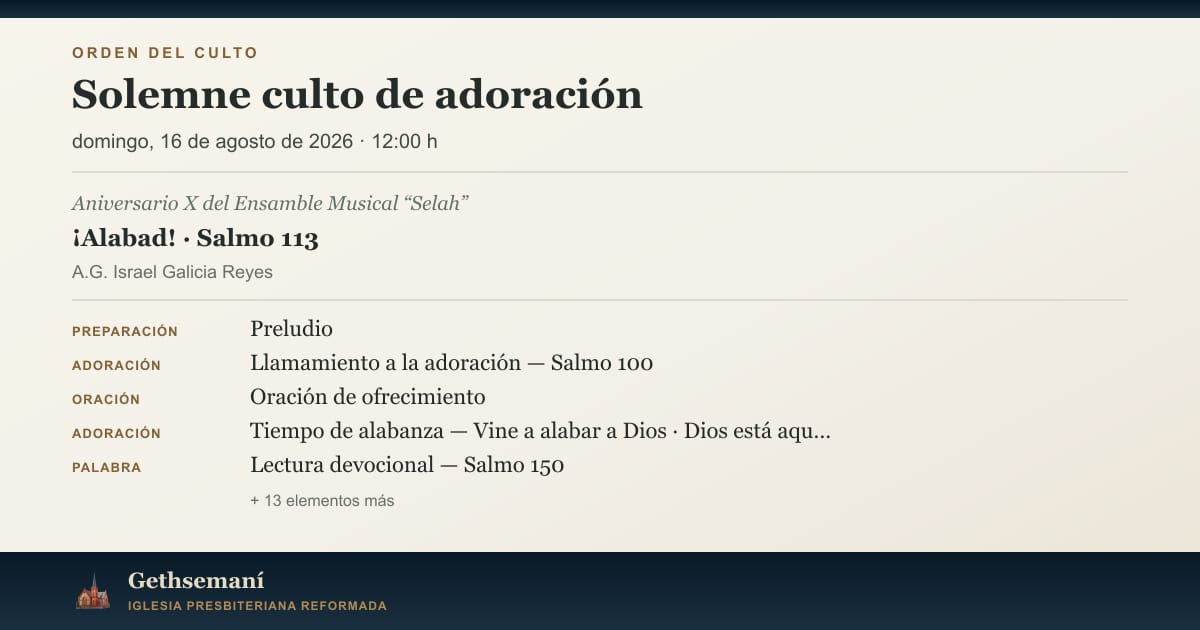
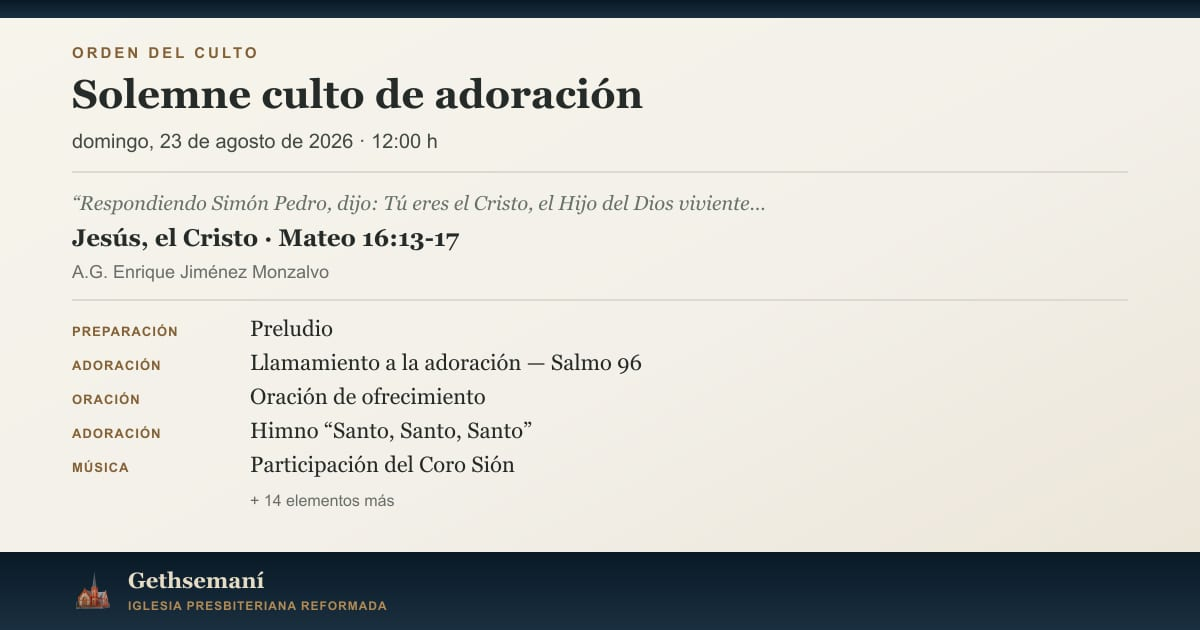
Publica el culto del 23 de agosto y actualiza el canal.
Incluye órdenes, reflexión e imagen de Jesús el Cristo, y retira la predicación anterior para mantener el repo ligero.

diff --git a/src/data/youtube.ts b/src/data/youtube.ts
@@ -7,6 +7,12 @@ export interface ChannelVideo {
 
 export const regularVideos: ChannelVideo[] = [
   {
+    title: 'Alabad',
+    url: 'https://www.youtube.com/watch?v=wFzQMnFORgU',
+    label: 'Culto de adoración',
+    detail: 'Salmo 113 · X aniversario del Ensamble Musical Selah · 16 de agosto de 2026',
+  },
+  {
     title: 'Promesa de restauración y esperanza',
     url: 'https://www.youtube.com/watch?v=XvYqXVpmSv8',
     label: 'Culto de adoración',
@@ -66,22 +72,17 @@ export const regularVideos: ChannelVideo[] = [
     label: 'Sermón',
     detail: 'Filipenses 4:1–6 · Pastor Antonio Rodríguez',
   },
-  {
-    title: 'Festival Navideño 2025',
-    url: 'https://www.youtube.com/watch?v=JiLvbqFk8H8',
-    label: 'Programa especial',
-  },
 ];
 
 export const latestLiveVideo: ChannelVideo = {
-  title: 'Promesa de restauración y esperanza',
-  url: 'https://www.youtube.com/watch?v=XvYqXVpmSv8',
+  title: 'Alabad',
+  url: 'https://www.youtube.com/watch?v=wFzQMnFORgU',
   label: 'Última transmisión',
-  detail: '9 de agosto de 2026',
+  detail: '16 de agosto de 2026',
 };
 
 export const latestShortVideo: ChannelVideo = {
-  title: '¿Quieres que no te falte nada?',
-  url: 'https://www.youtube.com/shorts/lKuBGy6jd_Y',
+  title: '¿Buscas esperanza?',
+  url: 'https://www.youtube.com/shorts/ZYrYp-3SIEs',
   label: 'Último Short',
 };

diff --git a/src/content/service-orders/2026-08-23-culto-12.md b/src/content/service-orders/2026-08-23-culto-12.md
@@ -1,0 +1,59 @@
+---
+title: Solemne culto de adoración
+date: 2026-08-23T12:00:00-06:00
+time: "12:00"
+location: Templo Gethsemaní
+theme: '“Respondiendo Simón Pedro, dijo: Tú eres el Cristo, el Hijo del Dios viviente.” — Mateo 16:16'
+sermonTitle: Jesús, el Cristo
+sermonPassage: Mateo 16:13-17
+sermonImage: /images/sermons/jesus-el-cristo-mateo-16.jpg
+sermonImageAlt: Cruz al atardecer con el título Jesús, el Cristo, Mateo 16:13-17
+preacher: A.G. Enrique Jiménez Monzalvo
+published: true
+elements:
+  - label: Preparación
+    title: Preludio
+  - label: Adoración
+    title: Llamamiento a la adoración
+    detail: Salmo 96
+  - label: Oración
+    title: Oración de ofrecimiento
+  - label: Adoración
+    title: Himno “Santo, Santo, Santo”
+  - label: Música
+    title: Participación del Coro Sión
+  - label: Palabra
+    title: Lectura devocional
+    detail: Filipenses 2:5-11
+  - label: Comunidad
+    title: Saludos, bienvenida y oración de intercesión
+  - label: Adoración
+    title: Himno “Jesús es el Señor”
+  - label: Adoración
+    title: Himno “Majestuoso, poderoso”
+  - label: Música
+    title: Participación del Coro Sión
+  - label: Palabra
+    title: Lectura bíblica
+    detail: Mateo 16:13-17
+  - label: Palabra
+    title: Mensaje “Jesús, el Cristo”
+    detail: A.G. Enrique Jiménez Monzalvo
+  - label: Respuesta
+    title: Himno de confirmación
+    detail: Junto a tu nombre
+  - label: Ofrendas
+    title: Himno No. 447 “Mi ofrenda doy”
+  - label: Ofrendas
+    title: Consagración de ofrendas y diezmos
+    detail: 2 Corintios 9:7
+  - label: Comunidad
+    title: Avisos
+  - label: Envío
+    title: Bendición
+    detail: Hebreos 13:20-21
+  - label: Envío
+    title: Doxología No. 450 “Dios te bendiga”
+  - label: Dirección
+    title: A.G. Hazael Cordova Ruiz
+---

diff --git a/src/content/reflections/quien-decis-que-soy-yo.md b/src/content/reflections/quien-decis-que-soy-yo.md
@@ -1,0 +1,18 @@
+---
+title: ¿Quién decís que soy yo?
+date: 2026-08-23T12:00:00-06:00
+description: La pregunta decisiva no es lo que otros dicen de Jesús, sino quién creemos que Él es para nosotros.
+passage: '“Y ustedes, ¿quién dicen que soy yo? Respondiendo Simón Pedro, dijo: Tú eres el Cristo, el Hijo del Dios viviente.” — Mateo 16:15-16'
+author: Boletín Vida Abundante
+published: true
+---
+
+Cuando Jesús llegó a la región de Cesarea de Filipo, preguntó a sus discípulos: «¿Quién dice la gente que es el Hijo del Hombre?» Ellos respondieron: «Unos dicen que Juan el Bautista; otros, Elías; y otros, Jeremías o alguno de los profetas».
+
+En la mente de la gente común judía de aquella época había una variedad de respuestas. Si esa misma pregunta se le hiciera a la sociedad actual, también obtendríamos toda una variedad de respuestas. Algunos lo verían simplemente como un gran maestro o líder, pero nada más. Algunos, como los musulmanes, lo verían como un profeta, pero no como el Hijo de Dios. Algunos en las sectas dirían que era un “dios” menor. ¡Algunos ateos podrían decir que ni siquiera existió!
+
+Pero la pregunta clave no es «¿quién dicen los demás que es?», sino «¿quién decís que soy yo?». Toda la humanidad tendrá que presentarse ante el Señor un día, y la pregunta no será qué dijeron los demás sobre Jesús, sino qué creíamos nosotros.
+
+La respuesta de Pedro fue muy acertada: «¡Tú eres el Cristo, el Hijo del Dios viviente!». Pedro sabía que Jesús era el Mesías, pero también sabía que era el propio Hijo de Dios. Esta verdad, dijo Jesús, solo la revela Su Padre en el cielo.
+
+¿Puedes responder a esta pregunta con absoluta certeza? Si no, ora y pídele a Dios que siga abriendo tus ojos y revelándote esta verdad absolutamente crucial a tu alma.

diff --git a/src/content/service-orders/2026-08-23-escuela-dominical.md b/src/content/service-orders/2026-08-23-escuela-dominical.md
@@ -1,37 +1,37 @@
 ---
 title: Escuela Dominical Superior “Antioquía”
-date: 2026-08-16T10:30:00-06:00
+date: 2026-08-23T10:30:00-06:00
 time: "10:30"
 location: Templo Gethsemaní
 theme: Introducción a los evangelios
-sermonTitle: Clase 28 “Evangelio de Juan”, capítulo 18
-sermonPassage: Isaías 53:3-5
+sermonTitle: Clase 29 “Evangelio de Juan”, capítulo 19
+sermonPassage: Génesis 3:15
 preacher: Hna. Gladis Hernández Solís
 published: true
 elements:
   - label: Adoración
     title: Llamamiento a la adoración
-    detail: Salmo 18
+    detail: Salmo 62
   - label: Oración
     title: Oración de ofrecimiento
   - label: Adoración
-    title: Himno No. 278 “Sublime gracia”
+    title: Himno No. 303 “Jesús es mi Rey soberano”
   - label: Palabra
     title: Lectura devocional
-    detail: 1 Corintios 1:18-24
+    detail: Filipenses 2:5-8
   - label: Adoración
-    title: Himno No. 173 “¿Qué me puede dar perdón?”
+    title: Himno No. 237 “Maravillosa gracia”
   - label: Estudio
     title: Texto de estudio
-    detail: Isaías 53:3-5
+    detail: Génesis 3:15
   - label: Estudio
     title: Introducción a los evangelios
-    detail: Clase 28 “Evangelio de Juan”, capítulo 18 · Hna. Gladis Hernández Solís
+    detail: Clase 29 “Evangelio de Juan”, capítulo 19 · Hna. Gladis Hernández Solís
   - label: Comunidad
     title: Avisos
   - label: Envío
     title: Bendición de la Escuela Dominical
     detail: 2 Pedro 3:18
   - label: Dirección
-    title: Edith Álvarez Ambriz
+    title: Rubén Marcelo Gregorio
 ---

diff --git a/src/content/service-orders/2026-08-23-culto-vespertino.md b/src/content/service-orders/2026-08-23-culto-vespertino.md
@@ -1,36 +1,33 @@
 ---
 title: Culto vespertino de adoración
-date: 2026-08-16T18:00:00-06:00
+date: 2026-08-23T18:00:00-06:00
 time: "18:00"
 location: Templo Gethsemaní
-sermonTitle: ¡Servid!
-sermonPassage: Salmo 113
-preacher: A.G. Israel Galicia Reyes
+sermonTitle: Más allá de la meta
+sermonPassage: Mateo 5:12
 published: true
 elements:
   - label: Preparación
     title: Preludio
   - label: Adoración
     title: Llamamiento a la adoración
-    detail: Salmo 134
+    detail: Salmo 95
   - label: Oración
     title: Oración de ofrecimiento
   - label: Adoración
-    title: Himno No. 503 “Al servicio siempre estoy”
+    title: Himno No. 1 “Sólo a Dios la gloria”
   - label: Palabra
     title: Lectura devocional
-    detail: Isaías 6:1-8
+    detail: Lucas 15:11-32
   - label: Oración
     title: Momentos de oración
   - label: Adoración
-    title: Tiempo de alabanza
-    detail: Tres himnos a elegir
+    title: Himno “Más allá del sol”
   - label: Palabra
     title: Lectura bíblica
-    detail: Salmo 113
+    detail: Mateo 5:12
   - label: Palabra
-    title: Mensaje “¡Servid!”
-    detail: A.G. Israel Galicia Reyes
+    title: Mensaje “Más allá de la meta”
   - label: Ofrendas
     title: Himno No. 447 “Mi ofrenda doy”
   - label: Comunidad
